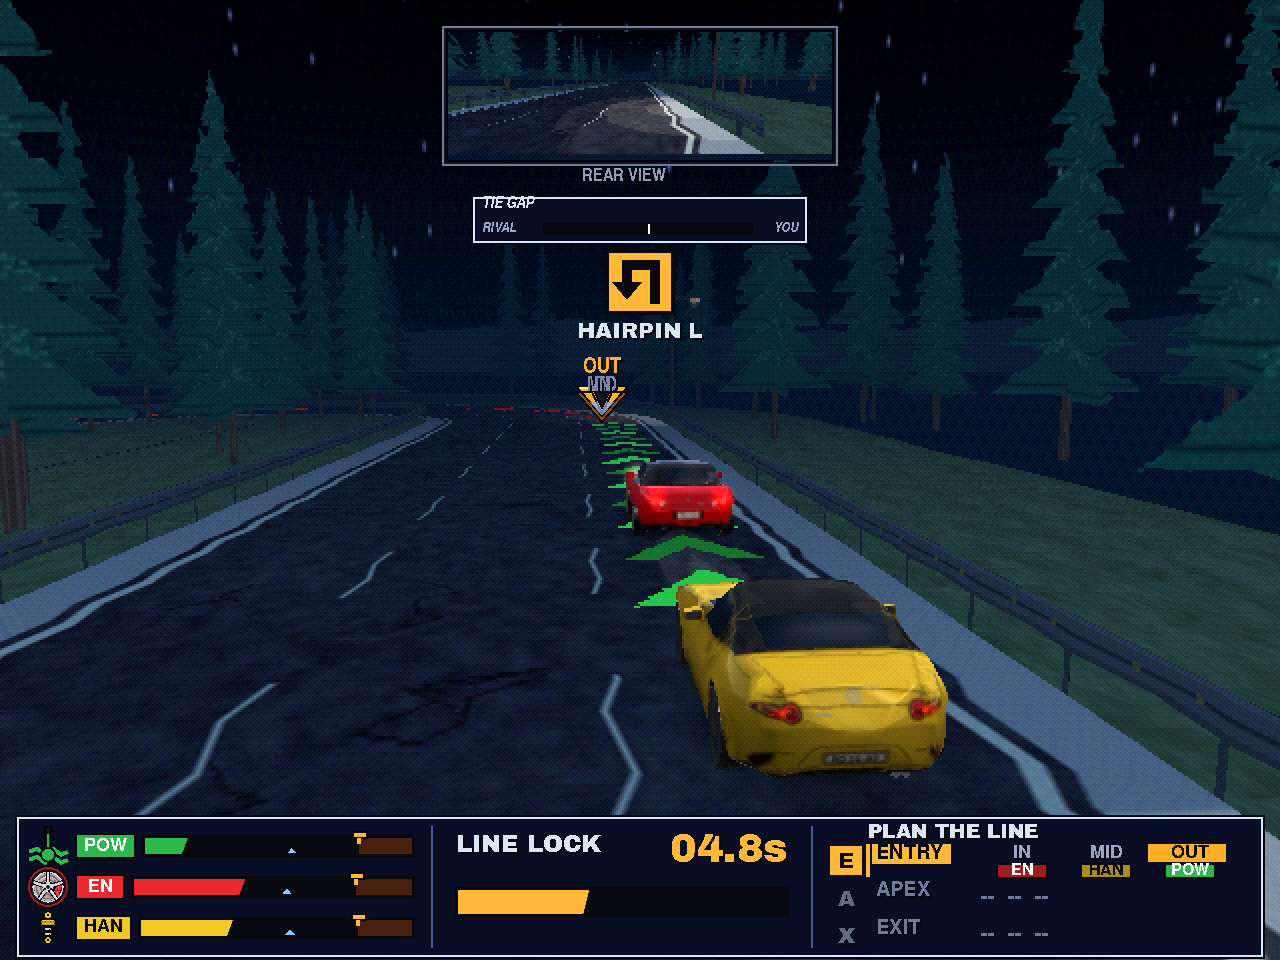
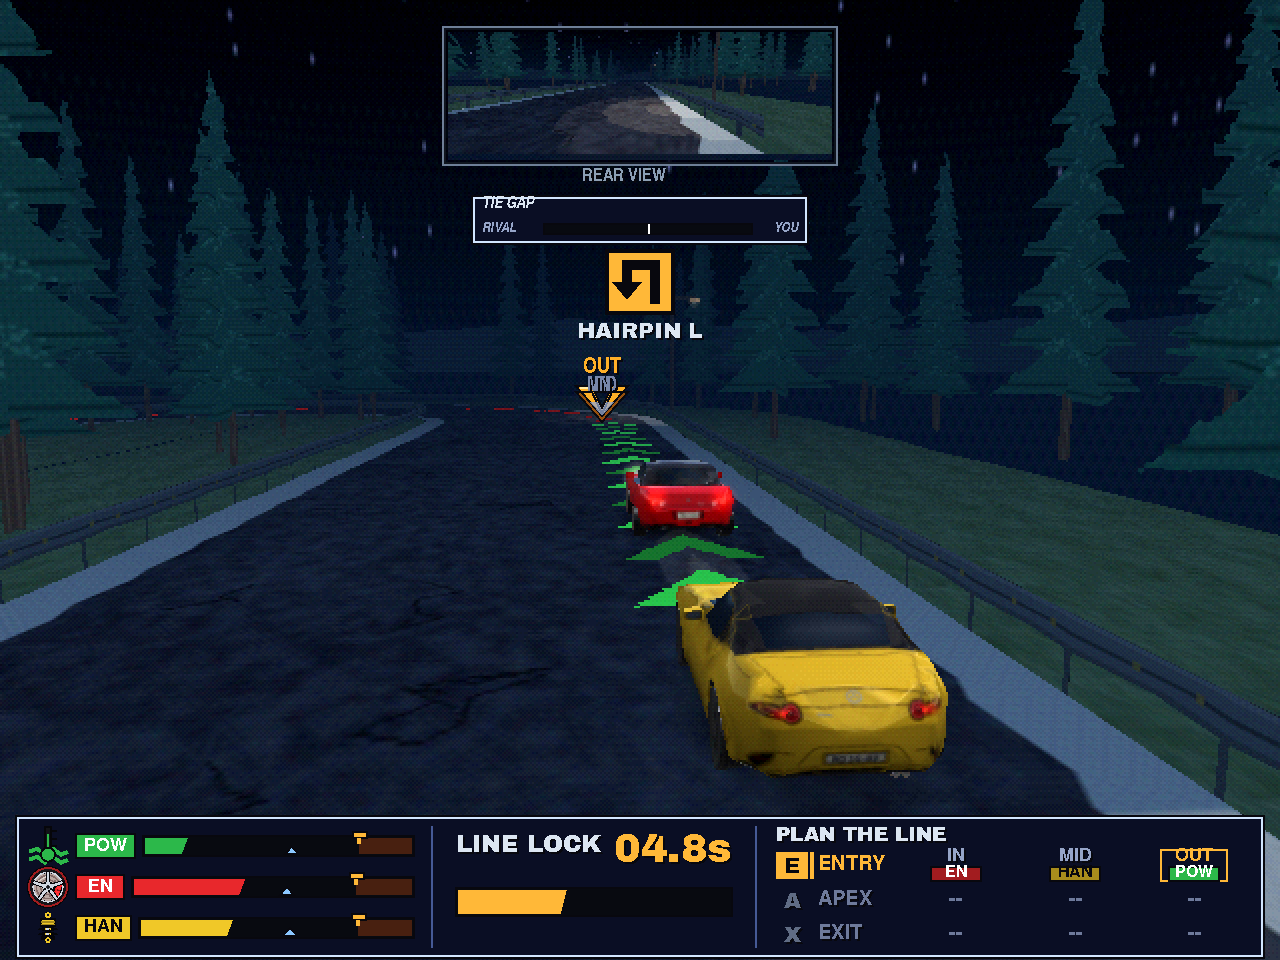
Art: E3B PLAN THE LINE grid cleanup; no lane lines on touge
Austin found the plan box sloppy, with OUT/MID/IN bunched. The section
is now a clean grid: header row, fixed E/A/X and label columns, even
stance columns with centred stacks, a frame on the selected choice,
and centred dashes on empty rows. LINE LOCK is slightly narrower but
still readable. Lane lines are removed from the touge road in this
mockup only (they belong on Street and Wangan, never touge). Gordon's
road bake is untouched. Concept only; not in the sim.

diff --git a/unapproved/arthur/mockups/resource_meters/README.md b/unapproved/arthur/mockups/resource_meters/README.md
@@ -25,7 +25,7 @@ Variant **E** replaces the POW/fuel row with **HEAT**: a standard dashboard cool
 - `e_full.png` — **E1.** International Rally-style layout (Austin, 2026-11-13: that GBC shot "shows a better HUD design"). One flat dark band under the play area: compact continuous HEAT / BRAKES / SUSP on the left (icon + stat chip + trough, like the T/G/E/S column), LINE LOCK (continuous bar, no pips) and the corner map in the middle, PLAN THE LINE chips on the right. The top stays minimal: rear view, a tighter tie-gap, and a floating flat turn sign (from the first reference). The road and the car stay clear. Art direction is flat: solid panel fills, 1–2 px hard borders, no plate grain, no bevels, no sheen (Austin: "the correct art direction is flatter is better"). Applied to every HUD element in E.
 - `e2_full.png` — **E2.** Same language, but LINE LOCK and the corner name sit in slim flat strips flanking the rear view, and the bottom band holds meters, the map, and the plan with a little more width. Use this if the single band in E1 feels tight.
 - `e3_full.png` — **E3.** From E1, answering Austin 2026-11-13: "if the turn indicator exists, why does the one exist in the middle of the bottom hud?" The corner map arc is gone from the band. HAIRPIN L sits under the floating turn sign, and the sign itself is a proper hairpin-left (U-turn) arrow. E / A / X camera stops move next to the PLAN THE LINE rows (E with ENTRY, A with APEX, X with EXIT). The middle of the band is LINE LOCK only, with room and bigger timer digits. Band type is Archivo Black / Nimbus Sans Bold at readable sizes, still flat.
-- `e3b_full.png` — **E3B.** Same layout as E3, with a new meter model (Austin, 2026-11-13). Concept only; not in the sim. All three bars are heat / load meters: they fill as load builds and drain as they recover. POW = engine heat (coolant icon, unchanged). EN and HAN band icons were reverted at Austin's request to the E3 wheel+caliper and shock from 7c69bf6; the EN wheel was then redrawn as a thin 5-spoke (spokes and hub face in the rim's light tone; one spoke points straight up so none sit on the horizontal; caliper still inside the rim, visible in the window near 3 o'clock). The HAN shock was shortened to a squatter coilover so it stays inside its row and does not crowd the EN wheel, chips or bars. The stat colour is the base fill. A LIMIT cap sits at about 80% and a RELEASE triangle at about 55% (placeholder numbers, not approved); the two marks are deliberately different. Between LIMIT and full is OVERRUN: hot-orange fill `#FF701C`, an OVERRUN tag, and a hot-orange penalty fill on that stance's PLAN THE LINE stat chip (still selectable, hits less). A full bar is LOCKED: padlock + LOCKED tag, the meter stat chip greyed and struck, and the plan chip shown unavailable. Once locked, the bar stays locked while it cools (dim, flat-hatched fill, padlock still up) until the fill drops below RELEASE; just under RELEASE it unlocks again. `e3b_full.png` shows mixed mid loads, all under LIMIT.
+- `e3b_full.png` — **E3B.** Same layout as E3, with a new meter model (Austin, 2026-11-13). Concept only; not in the sim. All three bars are heat / load meters: they fill as load builds and drain as they recover. POW = engine heat (coolant icon, unchanged). EN and HAN band icons were reverted at Austin's request to the E3 wheel+caliper and shock from 7c69bf6; the EN wheel was then redrawn as a thin 5-spoke (spokes and hub face in the rim's light tone; one spoke points straight up so none sit on the horizontal; caliper still inside the rim, visible in the window near 3 o'clock). The HAN shock was shortened to a squatter coilover so it stays inside its row and does not crowd the EN wheel, chips or bars. PLAN THE LINE sits on a clean grid: a header row, fixed E/A/X and label columns, and three even OUT/MID/IN columns with the position text centred over a same-width framed stat box. The section is a little wider, taking space from LINE LOCK. These E3B frames also use a local touge road texture with no lane lines (lane lines appear only in the Street and Wangan settings, never on touge). The stat colour is the base fill. A LIMIT cap sits at about 80% and a RELEASE triangle at about 55% (placeholder numbers, not approved); the two marks are deliberately different. Between LIMIT and full is OVERRUN: hot-orange fill `#FF701C`, an OVERRUN tag, and a hot-orange penalty fill on that stance's PLAN THE LINE stat chip (still selectable, hits less). A full bar is LOCKED: padlock + LOCKED tag, the meter stat chip greyed and struck, and the plan chip shown unavailable. Once locked, the bar stays locked while it cools (dim, flat-hatched fill, padlock still up) until the fill drops below RELEASE; just under RELEASE it unlocks again. `e3b_full.png` shows mixed mid loads, all under LIMIT.
 
 
 **Strongest of A–C: B.** It shares LINE LOCK's width and pip language, so the left column reads as one family, and drain / low / empty / refill are the easiest to judge at a glance. A is the most compact, but the short vertical ticks are harder to count and the plates sit narrower than LINE LOCK. C is a good late-90s gauge alternative; the rings are distinctive, but they compete a little with the circular brake icon and the track only has six pips.
@@ -52,6 +52,7 @@ States are rendered for every variant (`a_`, `b_`, `c_`, `d_`, `e_` prefixes; E2
 - `e3b_overrun.png` / `e3b_locked.png` — full frames with POW in OVERRUN and LOCKED, including the PLAN THE LINE chip treatment.
 - `en_icon_5spoke.png` — EN 5-spoke before and after the rotation (one spoke up) at in-band and 4× nearest.
 - `han_icon_short.png` — old vs shorter HAN coilover at in-band and 4× nearest, shown in the band with the neighbouring rows.
+- `plan_box_cleanup.png` — PLAN THE LINE box before and after the grid cleanup, at 2× nearest.
 
 **E vs D, what was trimmed or moved.** LINE LOCK, PLAN THE LINE and the HAIRPIN plate leave the play area and sit in the bottom band (E2 parks LINE LOCK and the corner name in slim top strips instead). Meter text labels drop; identity is icon + POW / EN / HAN chip. The tie-gap box is shorter. Plate grain, bevels and bar sheen are gone on every E HUD element. The floating turn sign replaces the large top-right corner plate as the upcoming-turn cue (the name, map and E/A/X stops remain, just smaller, in the band).
 

diff --git a/CHANGELOG.md b/CHANGELOG.md
@@ -8,6 +8,12 @@
 
 ---
 
+## 2026-11-13 — Arthur [art]: E3B PLAN THE LINE grid cleanup; no lane lines on touge
+
+- **Why:** Austin, 2026-11-13: "Kinda sloppy, out/mid/in is bunched together and the plan the line box is sloppy." Also: remove the dashed centre and edge lane markings from the touge road in these mockup renders — they wobble near the camera and make the road look too wide for a tight touge pass.
+- **What (`unapproved/arthur/mockups/resource_meters/`):** PLAN THE LINE is laid out on a clean grid: a header row with a gap below the title; E/A/X in a fixed left column and the row labels in a fixed second column; three evenly spaced, equal-width stance columns with the position text centred over a same-width framed stat box (canon unchanged: unframed position, framed stat underneath). Consistent row height and inner padding, nothing touching the panel border. The ENTRY highlight no longer fills over the text; the selected choice is a 1 px frame around the stack. Empty APEX/EXIT rows show a centred dash in each column. The section is a little wider, taking space from LINE LOCK, which stays readable. `e3b_full.png`, `e3b_states.png`, `e3b_overrun.png` and `e3b_locked.png` re-rendered in Godot. Before/after of the box at 2×: `plan_box_cleanup.png`. Concept only; not in the sim.
+- **Touge lane lines:** Rule — lane lines appear only in the Street and Wangan settings, never on touge. Gordon's road bake (`unapproved/gordon/two-corner/spec/gen_art.py`, which writes `godot/art/touge_road.png` and is loaded by `art_kit.gd`) was not edited. The E3B mockup overrides that texture with a local no-line `godot/art/touge_road.png`.
+
 ## 2026-11-13 — Arthur [art]: E3B EN 5-spoke rotated; HAN coilover shortened
 
 - **Why:** Austin, 2026-11-13: approved the light 5-spoke and asked to rotate it so no spoke sits on the horizontal, then: "Next is to make the coil over shorter so it doesn’t impede."
